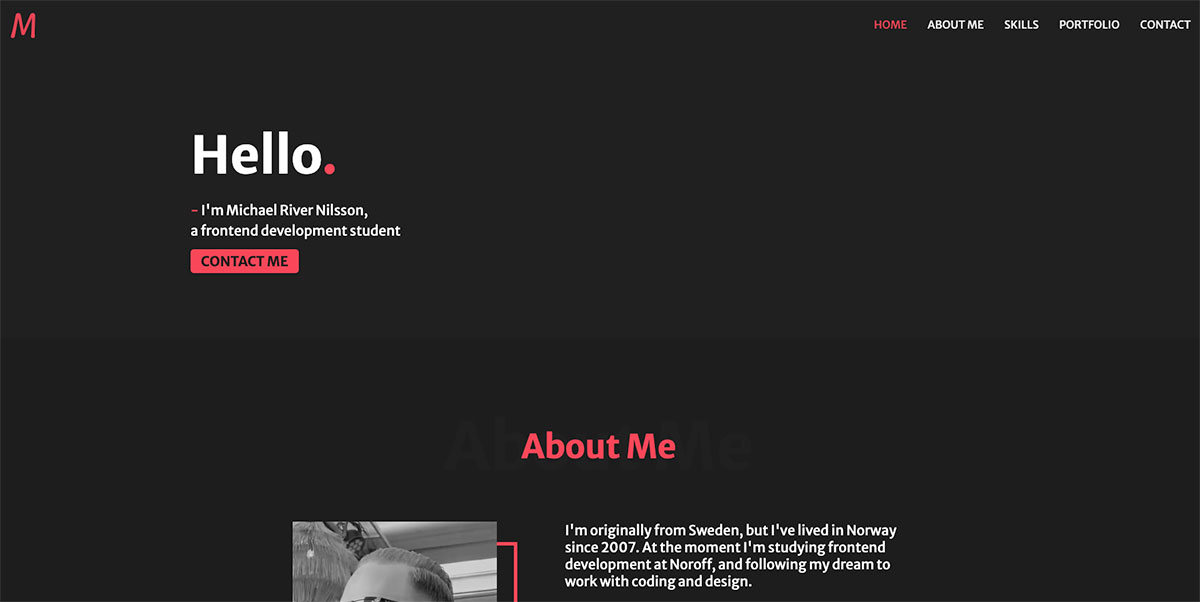
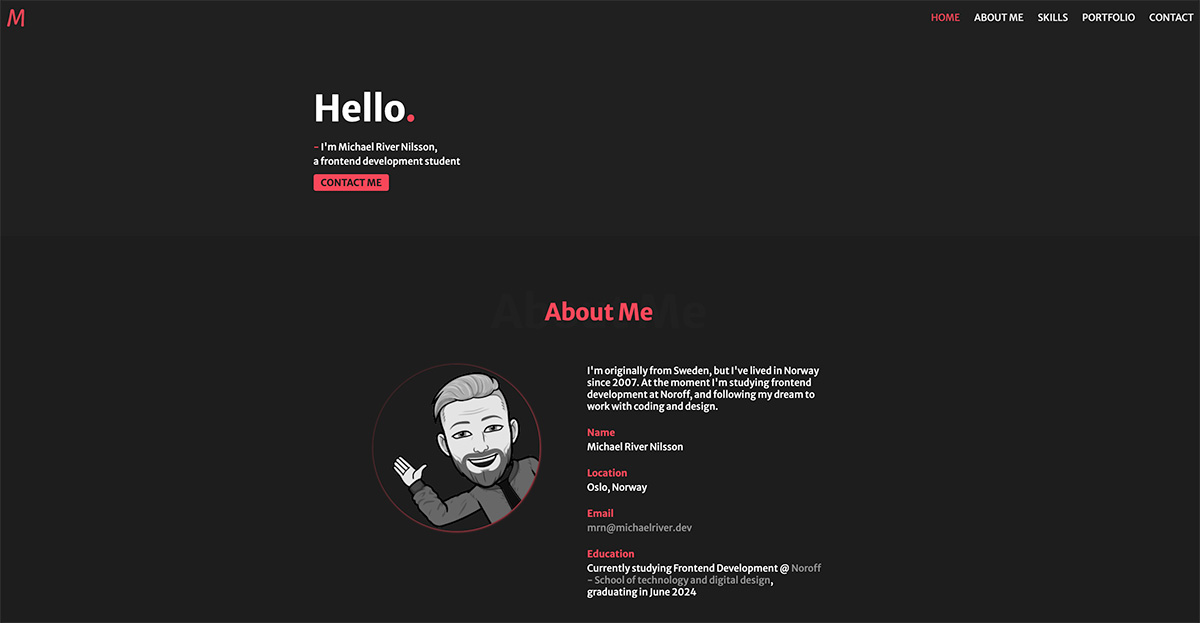
updated about photo, some overall CSS  and readme file

diff --git a/css/styles.css b/css/styles.css
@@ -132,6 +132,7 @@ nav ul {
 nav li {
   display: block;
   text-transform: uppercase;
+  font-size: 1.25rem;
 }
 
 /* FOOTER */
@@ -233,27 +234,13 @@ nav li {
   gap: 100px;
 }
 
-.about-image {
-  position: relative;
-}
-
 .about__image {
   object-fit: cover;
   object-position: top;
-  position: relative;
-  background: var(--clr-light);
   width: 250px;
   height: 250px;
-  z-index: 900;filter: brightness(0.8);
-}
-
-.about-image__box {
-  border: 5px solid var(--clr-action);
-  width: 100%;
-  height: 100%;
-  position: absolute;
-  left: 30px;
-  top: 30px;
+  border-radius: 50%;
+  box-shadow: 1px 1px 5px var(--clr-action);
 }
 
 .about-content {
@@ -317,15 +304,15 @@ nav li {
 .project {
   flex-direction: column-reverse;
   gap: 30px;
-  box-shadow: 0px 0px 10px var(--clr-darkgrey);
+  box-shadow: 0px 0px 5px var(--clr-action);
   border-radius: 20px;
   padding: 20px;
   justify-content: flex-end;
+  transition: transform 0.25s ease-in-out;
 }
 
 .project:hover {
-  box-shadow: 0px 0px 10px var(--clr-action);
-  transition: all 0.25s ease-in-out;
+  transform: scale(1.1);
 }
 
 .project-content {

diff --git a/index.html b/index.html
@@ -73,8 +73,11 @@
 
           <div class="about-content__wrapper split">
             <section class="about-image">
-              <img src="images/mrn_profile.jpg" alt="" class="about__image" />
-              <div class="about-image__box"></div>
+              <img
+                src="images/mrn_emoji.jpg"
+                alt="bitemoji of Michael River Nilsson"
+                class="about__image"
+              />
             </section>
 
             <section class="about-content flex">

diff --git a/css/media.css b/css/media.css
@@ -28,8 +28,8 @@
     }
 
     .about__image, .about-image__box {
-        width: 300px;
-        height: 300px;
+        width: 350px;
+        height: 350px;
     }
 
     .skills-content {
